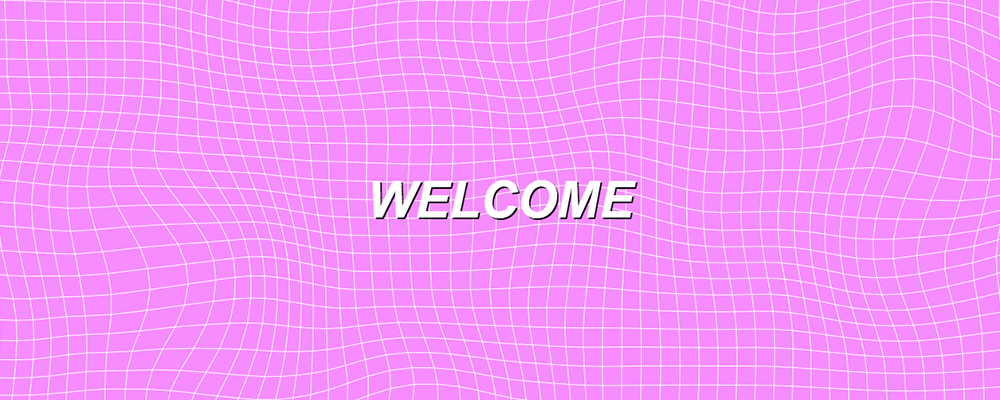
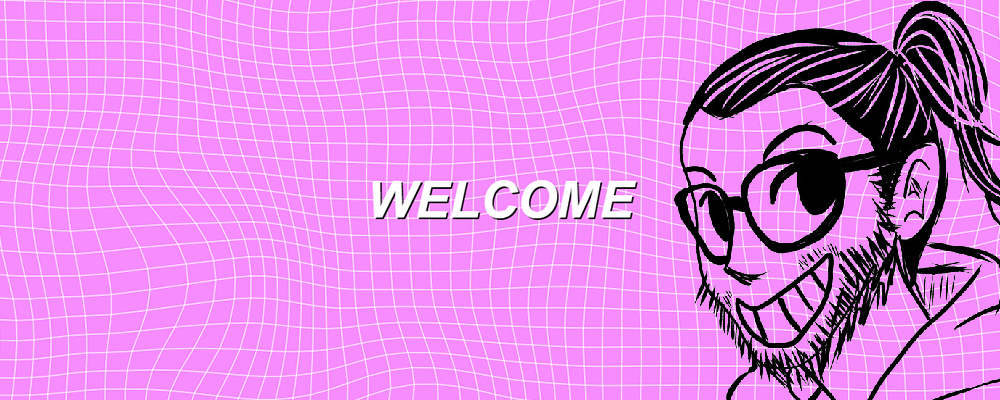
small fixes to FINAL

diff --git a/index.html b/index.html
@@ -25,7 +25,7 @@
     <!-- Start content section of each page here!!! -->
     <div class="grid-x grid-margin-x grid-padding-x align-center">
       <article class="cell large-8">
-        <img src="img/banner.jpg" alt="Jeric Banner">
+        <img src="img/welcome.jpg" alt="Jeric Banner">
         <h2>A Lighter Shade of Brown</h2>
         <p>This is the Art Portfolio of the Artist known as Jeric Lingad. Have a look around!</p>
       </article>
